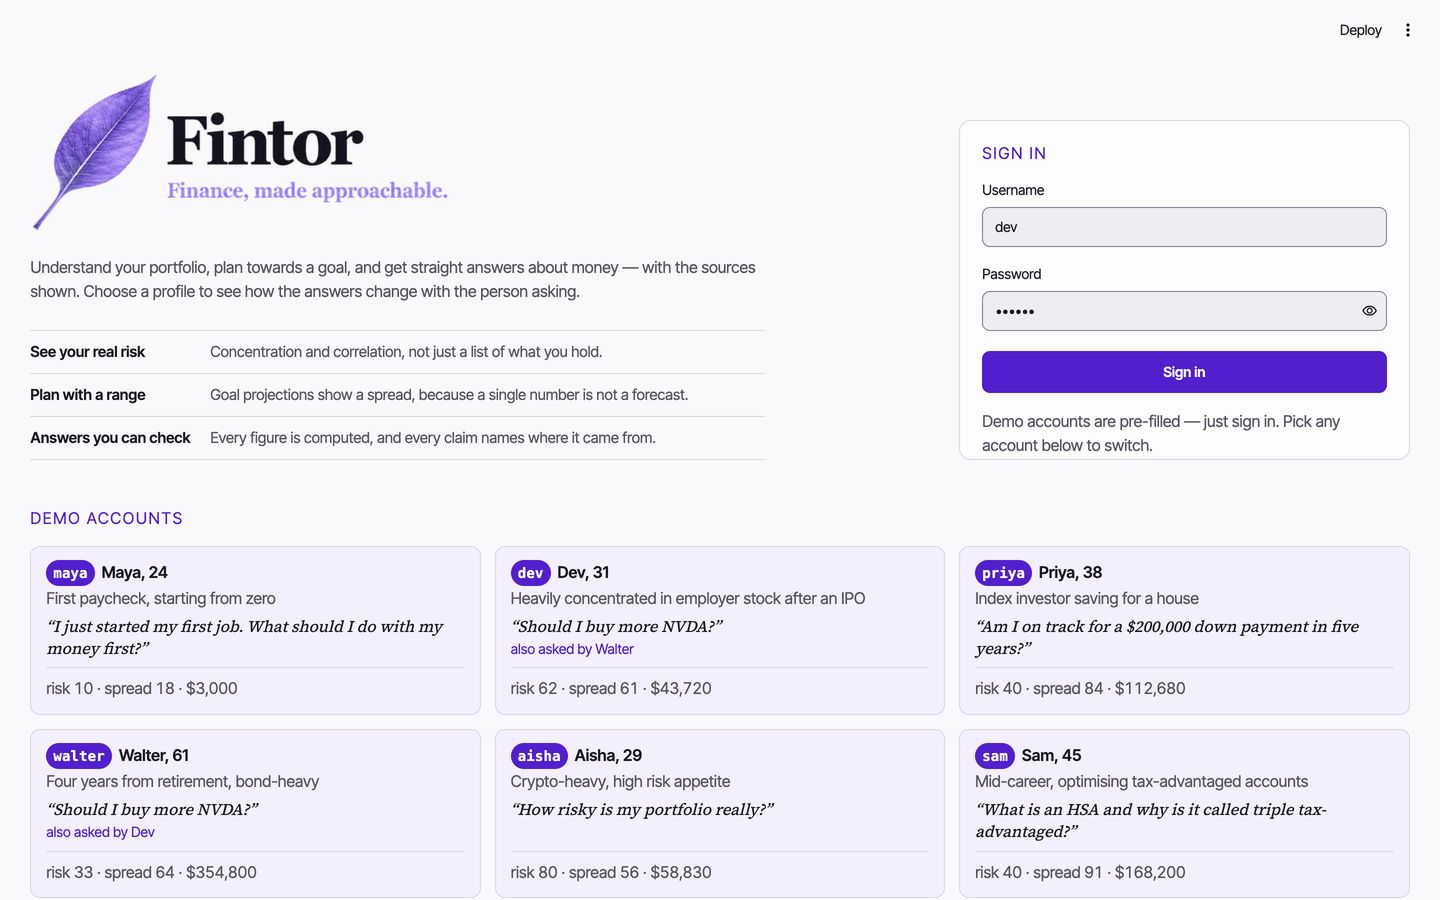
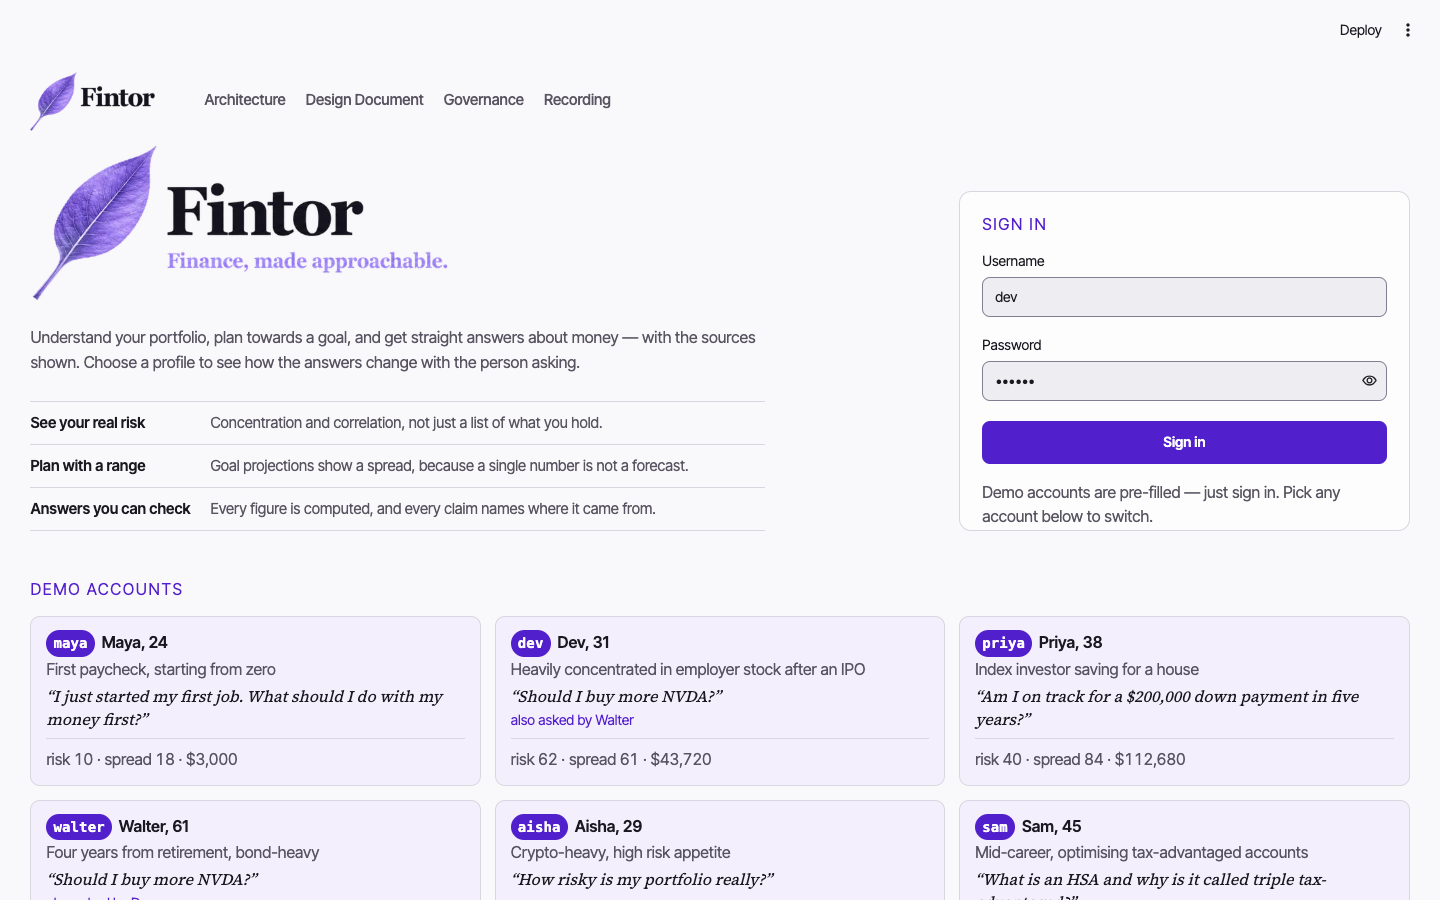
docs(readme): the reference pages, the live URL, and a screenshot that matches
docs/img/sign-in.png predated the top bar, so the README's hero shot of the
sign-in screen no longer showed the screen. Recaptured at the same 1440x900
through the same system-Chrome path scripts/record_demo.py uses, because
Playwright still refuses to download Chromium for macOS 12.

The "For reviewers" section is the exact audience the four public pages were
opened for and did not mention them, so it says so now, in the table and in
the sign-in paragraph a reviewer is already reading. The nav map marks which
pages open without an account and which do not.

Also the live Cloud Run URL, which appeared nowhere in this file, and the
repo tree's test count, which still said 361.

diff --git a/README.md b/README.md
@@ -29,8 +29,15 @@ different portfolio, click any of the six account cards and press it again. (If 
 would rather type: any of `maya`, `dev`, `priya`, `walter`, `aisha`, `sam`, password
 `fintor`.)
 
+**Or do not sign in at all.** *Architecture*, *Design Document*, *Governance* and the
+*Recording* are in the menu at the top of the sign-in screen and open without an
+account — they render files committed to this repository, so there was nothing for a
+login to protect. The workspace pages and *AI Internals* stay behind it: those report a
+portfolio and the last run, which an anonymous visitor does not have.
+
 | | |
 |---|---|
+| **Live demo** | <https://fintor-871915486388.us-central1.run.app> — *Architecture*, *Design Document*, *Governance* and the *Recording* open without signing in. |
 | **Demo video** | [`docs/demo.mp4`](docs/demo.mp4) — 9 min 22 s, narrated and scored. Also inside the app under *About Fintor → Recording*. |
 | **Tests** | 378, all passing offline with zero API spend: `FINTOR_OFFLINE=1 .venv/bin/python -m pytest -q` |
 | **Coverage** | **83%** line coverage: `FINTOR_OFFLINE=1 .venv/bin/python -m pytest -q --cov=src` |
@@ -146,12 +153,13 @@ Five decisions worth the reading time:
   the guardrail counters — for the run you just did.
 
 ```
-Workspace                    About Fintor
-├── Chat                     ├── Architecture      (7 diagrams, #1 generated from the graph)
-├── Portfolio                ├── AI Internals      ← the machinery, made visible
-├── Market                   ├── Design Document
-└── Goals                    ├── Governance        (5 SKILL.md + traceability)
-                             └── Recording
+Workspace                    About Fintor              ○ = no sign-in needed
+├── Chat                     ├── ○ Architecture    (7 diagrams; #1 is generated from
+├── Portfolio                │                      the graph, and needs a sign-in)
+├── Market                   ├──   AI Internals    ← the machinery, made visible
+└── Goals                    ├── ○ Design Document
+                             ├── ○ Governance      (5 SKILL.md + traceability)
+                             └── ○ Recording
 ```
 
 ## Quick start
@@ -298,7 +306,7 @@ fintor/
 │   ├── agents/           6 specialists · base · narration · registry
 │   ├── workflow/         graph · router · tools · verify
 │   └── web_app/          app.py · gate · chrome · views/ · theme · brand · assets/
-└── tests/                361 tests
+└── tests/                378 tests
 ```
 
 ## Usage examples
